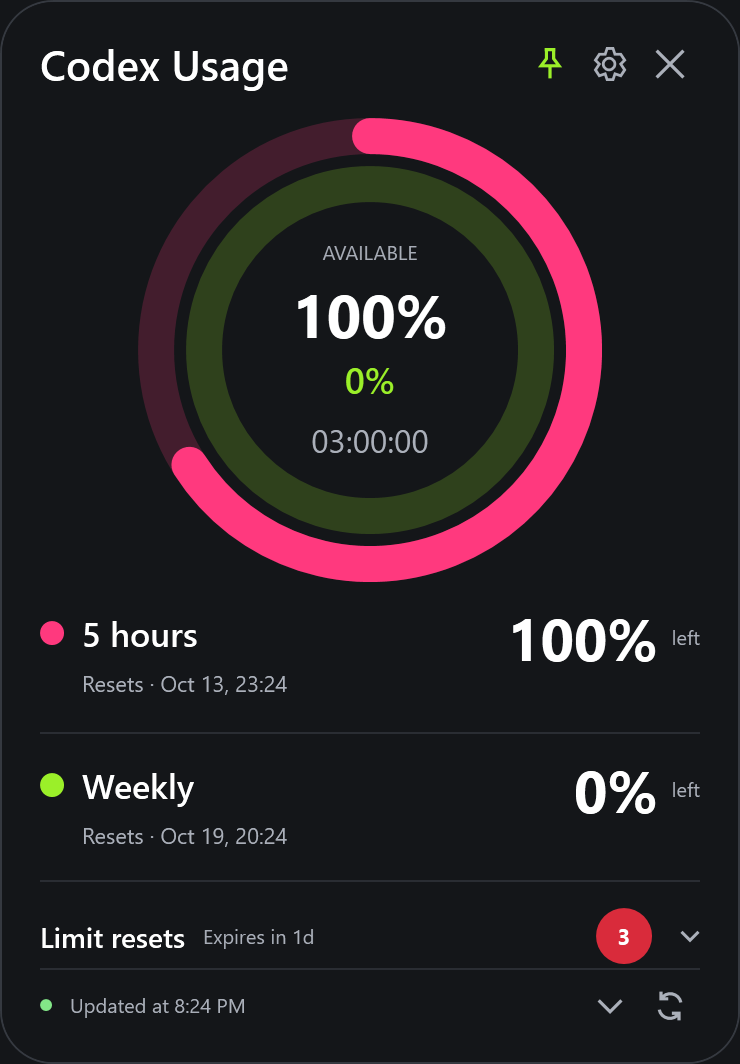
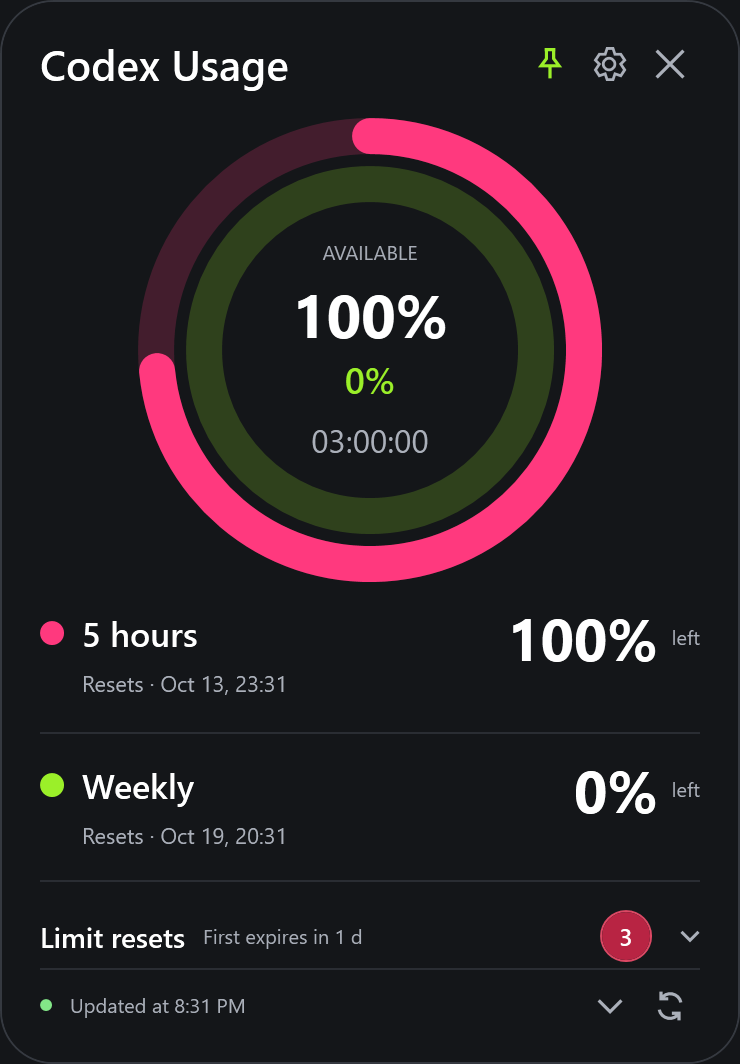
Localize first reset expiry and refine its count badge

diff --git a/src/CodexUsageWidget/MainWindow.xaml b/src/CodexUsageWidget/MainWindow.xaml
@@ -92,9 +92,18 @@
       </ControlTemplate></ToggleButton.Template>
       <Grid><Grid.ColumnDefinitions><ColumnDefinition Width="Auto"/><ColumnDefinition/><ColumnDefinition Width="Auto"/></Grid.ColumnDefinitions>
         <TextBlock Text="{loc:Tr ResetsHeading}" FontSize="14" FontWeight="SemiBold" VerticalAlignment="Center"/>
-        <TextBlock x:Name="SoonestExpiry" Grid.Column="1" Text="{Binding SoonestExpiryText}" Foreground="{DynamicResource WidgetMuted}" FontSize="10" TextTrimming="CharacterEllipsis" VerticalAlignment="Center" Margin="9,0,0,0" ToolTip="{Binding ResetExpiry}"/>
-       <Border Grid.Column="2" Background="#D92B3B" CornerRadius="14" Width="28" Height="28" Margin="9,0,0,0" ToolTip="{Binding ResetAvailability}">
-        <TextBlock x:Name="ResetCountBadge" Text="{Binding ResetCountText}" Foreground="White" FontSize="11" FontWeight="Bold" VerticalAlignment="Center" HorizontalAlignment="Center"/>
+        <TextBlock x:Name="SoonestExpiry" Grid.Column="1" Text="{Binding SoonestExpiryText}" Foreground="{DynamicResource WidgetMuted}" FontSize="10" TextTrimming="CharacterEllipsis" VerticalAlignment="Center" Margin="9,0,0,0">
+         <TextBlock.ToolTip><StackPanel><TextBlock Text="{Binding SoonestExpiryText}" Foreground="{StaticResource Text}"/><TextBlock Text="{Binding ResetExpiry}" Foreground="{StaticResource Muted}" Margin="0,4,0,0"/></StackPanel></TextBlock.ToolTip>
+        </TextBlock>
+       <Border Grid.Column="2" CornerRadius="13" MinWidth="26" Height="26" Padding="6,0" Margin="9,0,0,0" ToolTip="{Binding ResetAvailability}" AutomationProperties.Name="{Binding ResetAvailability}">
+        <Border.Style><Style TargetType="Border">
+         <Setter Property="Background" Value="#B82443"/><Setter Property="BorderBrush" Value="#DC4864"/><Setter Property="BorderThickness" Value="1"/>
+         <Style.Triggers>
+          <DataTrigger Binding="{Binding ResetCountText}" Value="0"><Setter Property="Background" Value="#30343B"/><Setter Property="BorderBrush" Value="#59616C"/></DataTrigger>
+          <DataTrigger Binding="{Binding ResetCountText}" Value="?"><Setter Property="Background" Value="#30343B"/><Setter Property="BorderBrush" Value="#59616C"/></DataTrigger>
+         </Style.Triggers>
+        </Style></Border.Style>
+        <TextBlock x:Name="ResetCountBadge" Text="{Binding ResetCountText}" Foreground="White" FontSize="12" FontWeight="SemiBold" Typography.NumeralStyle="Lining" Typography.NumeralAlignment="Tabular" VerticalAlignment="Center" HorizontalAlignment="Center"/>
        </Border>
       </Grid>
      </ToggleButton>

diff --git a/src/CodexUsageWidget/MainWindow.xaml.cs b/src/CodexUsageWidget/MainWindow.xaml.cs
@@ -576,14 +576,14 @@ public partial class MainWindow : Window
             ((SolidColorBrush)FindResource("Pink")).Color != Color.FromRgb(255, 57, 126))
             throw new InvalidOperationException("Cancel must restore the original colors.");
         var expiryNow = DateTimeOffset.UtcNow;
-        if (WidgetViewModel.FormatExpiryLeadTime(expiryNow.AddDays(1.5), expiryNow) != "1d" ||
-            WidgetViewModel.FormatExpiryLeadTime(expiryNow.AddHours(23), expiryNow) != "23h" ||
-            WidgetViewModel.FormatExpiryLeadTime(expiryNow.AddHours(-1), expiryNow) != "0h")
+        if (WidgetViewModel.FormatExpiryLeadTime(expiryNow.AddDays(1.5), expiryNow) != "1 d" ||
+            WidgetViewModel.FormatExpiryLeadTime(expiryNow.AddHours(23), expiryNow) != "23 h" ||
+            WidgetViewModel.FormatExpiryLeadTime(expiryNow.AddHours(-1), expiryNow) != "0 h")
             throw new InvalidOperationException("Expiry summary must switch from days to hours and never be negative.");
         _viewModel.SetSnapshot(_viewModel.Snapshot! with { ObservedAt = DateTimeOffset.UtcNow,
             ResetCredits = new ResetCredits(2, [new ResetCredit("later", expiryNow.AddDays(5)), new ResetCredit("first", expiryNow.AddHours(22.5))]), ResetCreditsIncluded = true });
         await Task.Delay(100);
-        if (_viewModel.ResetEntries[0].Credit.Id != "first" || SoonestExpiry.Text != "Expires in 23h")
+        if (_viewModel.ResetEntries[0].Credit.Id != "first" || SoonestExpiry.Text != "First expires in 23 h")
             throw new InvalidOperationException("The header must summarize the first expiring credit regardless of server order.");
         Capture(Surface, Path.Combine(directory, "reset-hours.png"));
         SetDemoSnapshot();

diff --git a/src/CodexUsageWidget/WidgetViewModel.cs b/src/CodexUsageWidget/WidgetViewModel.cs
@@ -65,8 +65,9 @@ public sealed class WidgetViewModel : INotifyPropertyChanged, IDisposable
     internal static string FormatExpiryLeadTime(DateTimeOffset expiry, DateTimeOffset now)
     {
         var remaining = expiry - now;
-        return remaining.TotalDays >= 1 ? $"{(int)remaining.TotalDays}d"
-            : $"{Math.Max(0, (int)Math.Ceiling(remaining.TotalHours))}h";
+        var days = remaining.TotalDays >= 1;
+        var amount = days ? (int)remaining.TotalDays : Math.Max(0, (int)Math.Ceiling(remaining.TotalHours));
+        return Localization.Current.Format(days ? "ExpiryDays" : "ExpiryHours", amount);
     }
     public bool CanChooseReset => CanReset && !_pendingReset;
     public string ResetListMessage => _pendingReset ? _text["ResetPending"] :

diff --git a/DESIGN.md b/DESIGN.md
@@ -13,7 +13,7 @@ colors:
   separator: "#2A2D33"
   warning: "#F1B859"
   current: "#83E788"
-  reset-count: "#D92B3B"
+  reset-count: "#B82443"
   control-hover: "#282B31"
   control-pressed: "#353942"
   control-hover-text: "#FFFFFF"
@@ -221,3 +221,5 @@ The reset reference is implemented as flat rows separated by the existing outlin
 The widget supports custom ring and background RGB colors without changing its layout. Settings pairs three labeled palette swatches with editable hex fields and a Default colors action. Preview is live and reversible; invalid input blocks Save. The main text and secondary text choose readable contrast against the selected background, while ring tracks mix the accent with that background. Dialogs and the tray keep their established dark surfaces. Settings remains centered with XAML CenterOwner and scrolls when clamped to its owner's monitor.
 
 The reset heading includes a compact relative expiry alongside its title and retains the red count badge and disclosure. It uses days at or above 24 hours, hours below; a tooltip retains the precise local expiry. Incomplete metadata uses explicit known-expiry wording. Reset rows remain ordered by ascending expiry with undated rows last.
+
+The reset count badge uses a 26-pixel cranberry-red circle with a one-pixel rose outline and 12-pixel semibold white tabular digits. Zero and unknown counts use a neutral gray fill and outline. Its minimum width expands for larger counts. The inline expiry identifies the first credit with localized compact units and preserves the complete copy in its tooltip.

diff --git a/README.md b/README.md
@@ -122,4 +122,6 @@ View switches and tray restoration refill the rings from zero while numeric data
 
 The Colors section in Settings customizes the five-hour ring, weekly ring and widget background. Click a swatch for a preset or type any `#RRGGBB` value. Colors preview immediately; Save persists them, Cancel restores them, and Default colors restores the original palette. Text contrast and ring tracks adapt; dialogs retain their shared dark style.
 
-Limit resets shows the earliest upcoming expiry as `Expires in 1d` or `Expires in 23h`. Rows sort earliest first, with undated credits last. Whole days are shown from 24 hours onward; shorter periods use rounded-up hours. Partial metadata says `Known expiry in …`. The tooltip provides the exact local date and time.
+Limit resets shows the earliest upcoming expiry as `First expires in 1 d` or `First expires in 23 h`. Rows sort earliest first, with undated credits last. Whole days are shown from 24 hours onward; shorter periods use rounded-up hours. Partial metadata says `First known expiry in …`. The tooltip provides the exact local date and time.
+
+Compact expiry units are localized: for example, Russian uses `9 дн.` and `23 ч`. The full summary and exact expiry remain available in the tooltip.

diff --git a/CHANGELOG.md b/CHANGELOG.md
@@ -1,5 +1,11 @@
 # Changelog
 
+## 0.7.1 — 2026-10-13 (local build)
+
+- The reset heading explicitly identifies the first expiring credit. Compact day/hour units and spacing follow the selected language, including Russian `дн.` and `ч`, rather than hard-coded English suffixes.
+- Refined the count badge into a smaller cranberry-red circle with a restrained outline and tabular white numerals. Zero and unknown counts use a neutral surface; larger numbers fit without clipping.
+- The expiry tooltip includes the complete localized summary and exact date when the inline text is shortened. English-only routine checks and both local packages remain enabled.
+
 ## 0.7.0 — 2026-10-13 (local build)
 
 - Settings customizes both quota ring colors and the widget background with palette swatches or #RRGGBB values. Changes preview immediately; Cancel restores the previous colors and Save persists them. Default colors restores the original palette.

diff --git a/docs/releases/v0.7.1.md b/docs/releases/v0.7.1.md
@@ -1,0 +1,7 @@
+# Codex Usage Widget v0.7.1
+
+- The reset heading explicitly identifies the first expiring credit. Compact day/hour units and spacing follow the selected language, including Russian `дн.` and `ч`, rather than hard-coded English suffixes.
+- Refined the count badge into a smaller cranberry-red circle with a restrained outline and tabular white numerals. Zero and unknown counts use a neutral surface; larger numbers fit without clipping.
+- The expiry tooltip includes the complete localized summary and exact date when the inline text is shortened. English-only routine checks and both local packages remain enabled.
+
+Portable includes the runtime. Lite requires Microsoft .NET 10 Desktop Runtime (Windows x64). Both archives include SHA-256 checksums.
